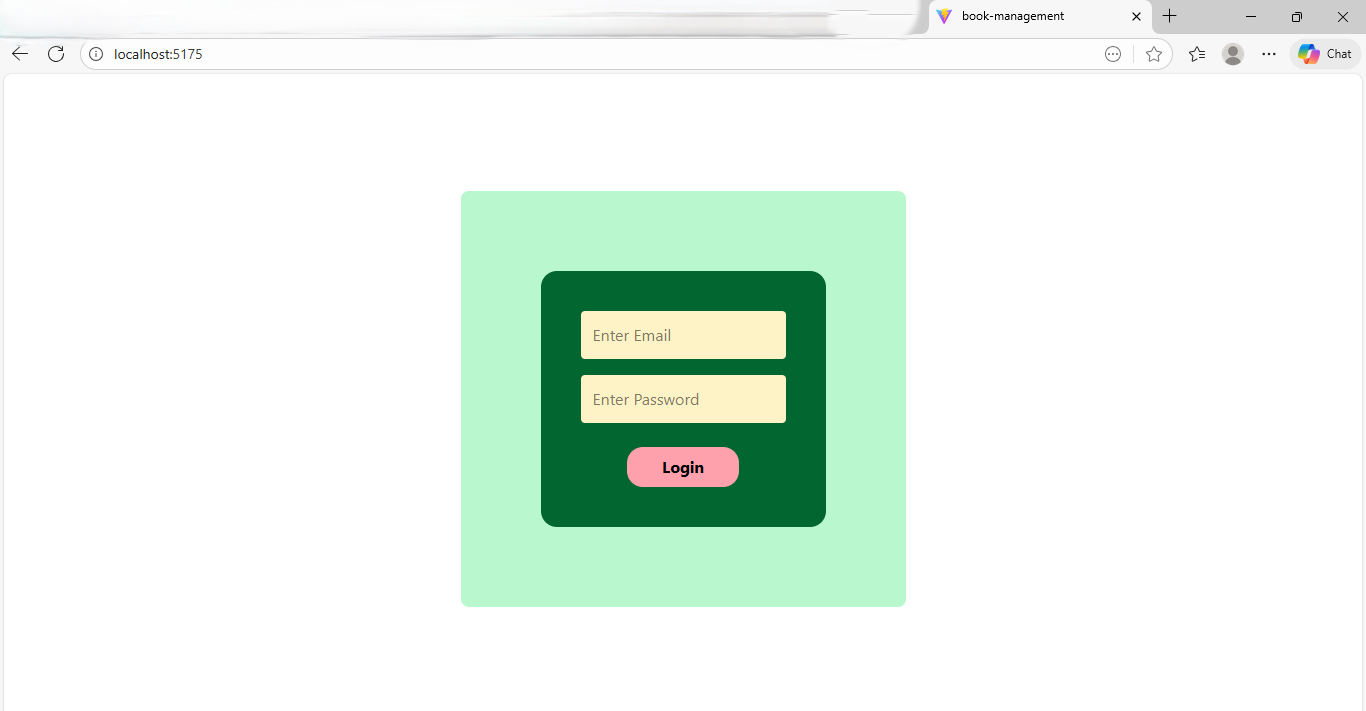
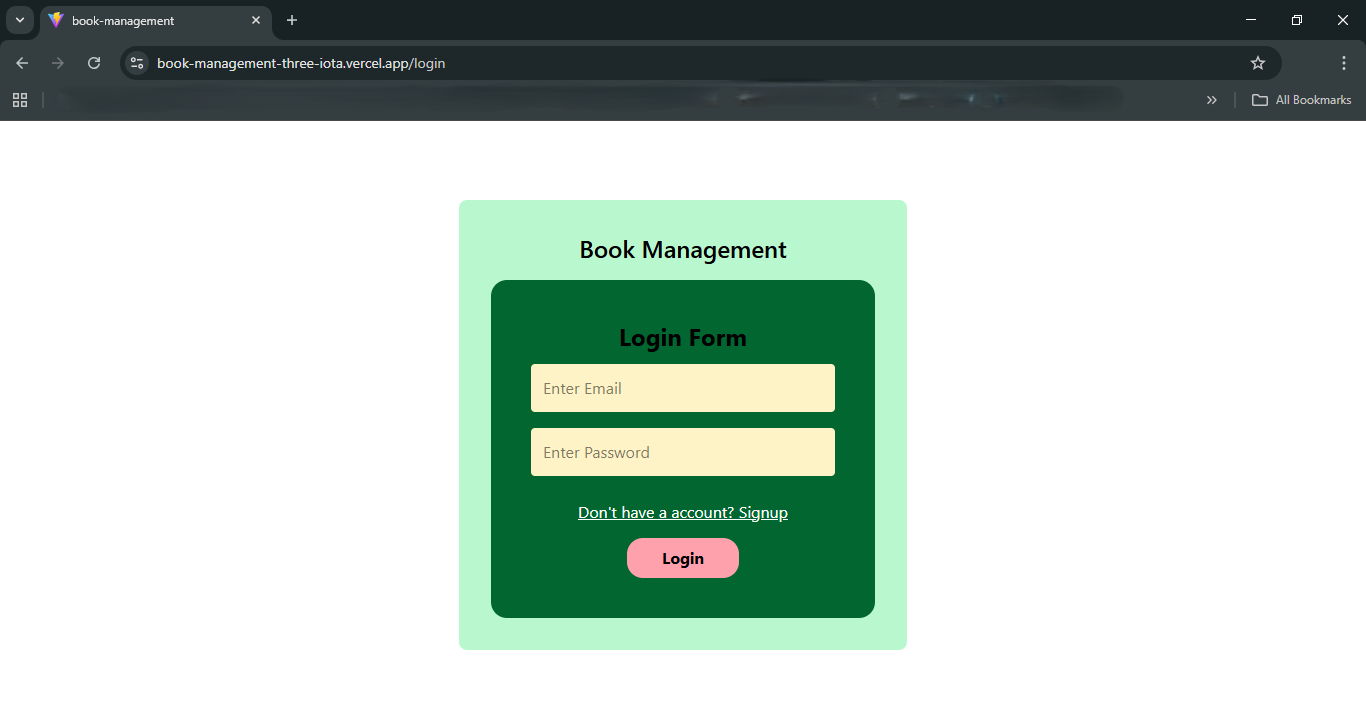
added screenshot of app

Changed region(s): [[0.0, 0.0, 1.0, 0.1857], [0.3382, 0.3404, 0.6764, 0.8973], [0.3382, 0.2475, 0.6764, 0.2785]]

diff --git a/README.md b/README.md
@@ -10,6 +10,11 @@ A simple book management app to add, edit, delete, search and manage book availa
 ---
 ## Demo Images
 
+<p align="center">
+  <img src="https://github.com/G-Kangutkar/book-management/blob/main/public/ScreenshotSignup.png?raw=true" alt="Screenshot of the application home page">
+</p>
+
+
 <p align="center" style={{margin-bottom:20px}}>
   <img src="https://github.com/G-Kangutkar/book-management/blob/main/public/ScreenshotLogin.png?raw=true" alt="Screenshot of the application login page">
 </p>
